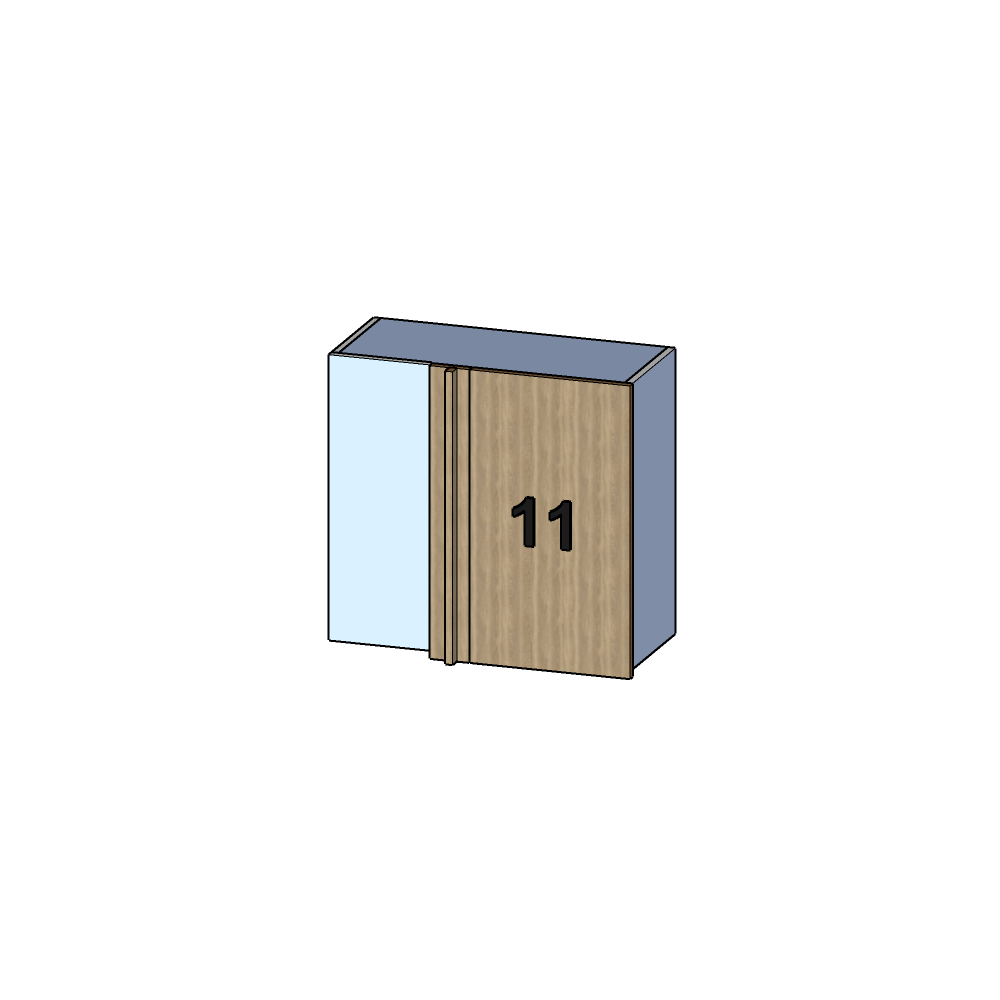
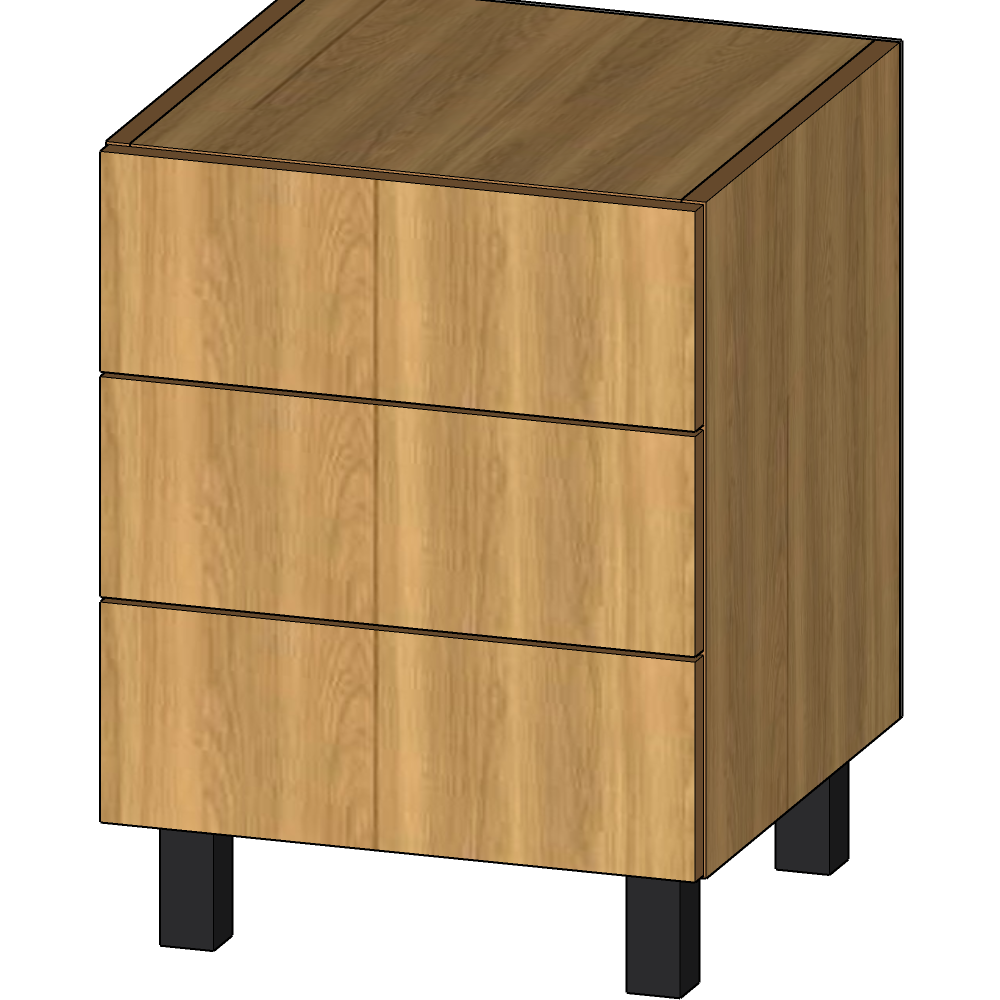
Cabinet Neo: kitchen-20261102 (8 ملف)

diff --git a/kitchen-20261102/unit_11.html b/kitchen-20261102/unit_11.html
@@ -1,10 +1,10 @@
 <!DOCTYPE html><html lang="ar" dir="rtl"><head><meta charset="UTF-8"><meta name="viewport" content="width=device-width,initial-scale=1">
-<title>علوية - وحدة رقم 11 - علبة</title><style>body{font-family:Tahoma,Arial,sans-serif;margin:0;background:#f4f4f4;color:#111}
+<title>وحدة 11 - كمود 3 أدراج</title><style>body{font-family:Tahoma,Arial,sans-serif;margin:0;background:#f4f4f4;color:#111}
 header{background:#ff6b1a;color:#fff;padding:14px 16px}h1{margin:0;font-size:22px}header p{margin:4px 0 0;font-size:13px;opacity:.9}
 img{display:block;width:100%;max-width:520px;margin:10px auto;background:#fff}.c{background:#fff;margin:10px;border-radius:10px;padding:12px}
 .dm{font-size:20px;font-weight:800;text-align:center;direction:ltr}table{width:100%;border-collapse:collapse;font-size:13px}td,th{border-bottom:1px solid #ddd;padding:6px;text-align:right}</style></head>
-<body><header><h1>علوية - وحدة رقم 11 - علبة</h1><p>سدة علوية · مطبخ · محمد عزت</p></header>
+<body><header><h1>وحدة 11 - كمود 3 أدراج</h1><p>وحدة خارجية · مطبخ · محمد عزت</p></header>
 <img src="unit_11.png" alt="">
-<div class="c dm">75 × 72 × 34.8 cm</div>
-<div class="c"><table><tr><th>#</th><th>القطعة</th><th>الخامة</th><th>المقاس (سم)</th><th>العدد</th></tr><tr><td><b>J</b></td><td>درفة علوية</td><td>HPL -SD-1026</td><td dir='ltr'>71.8 × 39.8</td><td>1</td></tr><tr><td><b>O</b></td><td>ثابتة علوية</td><td>HPL -SD-1026</td><td dir='ltr'>71.8 × 9.8</td><td>1</td></tr><tr><td><b>P</b></td><td>فلير وحدة علوية</td><td>HPL -SD-1026</td><td dir='ltr'>71.8 × 3</td><td>1</td></tr><tr><td><b>J</b></td><td>ضهرية</td><td>ظهور MDF 6مملي</td><td dir='ltr'>72.8 × 66.4</td><td>1</td></tr><tr><td><b>Q</b></td><td>أرضية</td><td>كونتر</td><td dir='ltr'>71.4 × 30</td><td>2</td></tr><tr><td><b>R</b></td><td>رف</td><td>كونتر</td><td dir='ltr'>71.4 × 27.6</td><td>1</td></tr><tr><td><b>S</b></td><td>م.تعليق</td><td>كونتر</td><td dir='ltr'>71.4 × 8</td><td>1</td></tr><tr><td><b>T</b></td><td>ج.يمين</td><td>كونتر</td><td dir='ltr'>70 × 30</td><td>2</td></tr><tr><td><b>U</b></td><td>سدة وحدة علوية</td><td>كونتر</td><td dir='ltr'>70 × 25</td><td>1</td></tr></table></div>
+<div class="c dm">45 × 60 × 43.8 cm</div>
+<div class="c"><table><tr><th>#</th><th>القطعة</th><th>الخامة</th><th>المقاس (سم)</th><th>العدد</th></tr><tr><td><b>B</b></td><td>كمود 3 أدراج - درج 1 - قاع</td><td>ظهور بورديوم 6مملي</td><td dir='ltr'>35.6 × 31.8</td><td>3</td></tr><tr><td><b>A</b></td><td>كمود 3 أدراج - جانب أيسر</td><td>غرفة نوم - خشب أوك</td><td dir='ltr'>50 × 41.4</td><td>2</td></tr><tr><td><b>E</b></td><td>كمود 3 أدراج - درج 1 - واجهة</td><td>غرفة نوم - خشب أوك</td><td dir='ltr'>44.6 × 16.3</td><td>3</td></tr><tr><td><b>F</b></td><td>كمود 3 أدراج - أرضية</td><td>غرفة نوم - خشب أوك</td><td dir='ltr'>41.4 × 41.4</td><td>2</td></tr><tr><td><b>A</b></td><td>كمود 3 أدراج - ضهر</td><td>غرفة نوم - ضهر</td><td dir='ltr'>50 × 45</td><td>1</td></tr><tr><td><b>C</b></td><td>كمود 3 أدراج - درج 1 - خلفية</td><td>كونتر</td><td dir='ltr'>35.6 × 10.3</td><td>6</td></tr><tr><td><b>F</b></td><td>كمود 3 أدراج - درج 1 - جانب أيسر</td><td>كونتر</td><td dir='ltr'>35 × 10.3</td><td>6</td></tr></table></div>
 <p style="text-align:center;color:#888;font-size:11px">Cabinet Neo</p></body></html>

diff --git a/kitchen-20261102/unit_17.html b/kitchen-20261102/unit_17.html
@@ -1,10 +1,10 @@
 <!DOCTYPE html><html lang="ar" dir="rtl"><head><meta charset="UTF-8"><meta name="viewport" content="width=device-width,initial-scale=1">
-<title>تجليدة 17</title><style>body{font-family:Tahoma,Arial,sans-serif;margin:0;background:#f4f4f4;color:#111}
+<title>وحدة 17 - كمود درجين</title><style>body{font-family:Tahoma,Arial,sans-serif;margin:0;background:#f4f4f4;color:#111}
 header{background:#ff6b1a;color:#fff;padding:14px 16px}h1{margin:0;font-size:22px}header p{margin:4px 0 0;font-size:13px;opacity:.9}
 img{display:block;width:100%;max-width:520px;margin:10px auto;background:#fff}.c{background:#fff;margin:10px;border-radius:10px;padding:12px}
 .dm{font-size:20px;font-weight:800;text-align:center;direction:ltr}table{width:100%;border-collapse:collapse;font-size:13px}td,th{border-bottom:1px solid #ddd;padding:6px;text-align:right}</style></head>
-<body><header><h1>تجليدة 17</h1><p>تجليدة · مطبخ · محمد عزت</p></header>
+<body><header><h1>وحدة 17 - كمود درجين</h1><p>وحدة خارجية · مطبخ · محمد عزت</p></header>
 <img src="unit_17.png" alt="">
-<div class="c dm">1.8 × 70 × 32 cm</div>
-<div class="c"><table><tr><th>#</th><th>القطعة</th><th>الخامة</th><th>المقاس (سم)</th><th>العدد</th></tr><tr><td><b>Q</b></td><td>تجليدة</td><td>HPL -SD-1026</td><td dir='ltr'>70 × 32</td><td>1</td></tr></table></div>
+<div class="c dm">50 × 50 × 43.8 cm</div>
+<div class="c"><table><tr><th>#</th><th>القطعة</th><th>الخامة</th><th>المقاس (سم)</th><th>العدد</th></tr><tr><td><b>A</b></td><td>كمود درج + رف - درج 1 - قاع</td><td>ظهور بورديوم 6مملي</td><td dir='ltr'>40.6 × 31.8</td><td>2</td></tr><tr><td><b>B</b></td><td>كمود درجين - درج 1 - واجهة</td><td>غرفة نوم - خشب أوك</td><td dir='ltr'>49.6 × 19.6</td><td>2</td></tr><tr><td><b>D</b></td><td>كمود درج + رف - أرضية</td><td>غرفة نوم - خشب أوك</td><td dir='ltr'>46.4 × 41.4</td><td>2</td></tr><tr><td><b>G</b></td><td>كمود درج + رف - جانب أيسر</td><td>غرفة نوم - خشب أوك</td><td dir='ltr'>41.4 × 40</td><td>2</td></tr><tr><td><b>B</b></td><td>كمود درج + رف - ضهر</td><td>غرفة نوم - ضهر</td><td dir='ltr'>50 × 40</td><td>1</td></tr><tr><td><b>A</b></td><td>كمود درجين - درج 1 - خلفية</td><td>كونتر</td><td dir='ltr'>40.6 × 13.6</td><td>4</td></tr><tr><td><b>D</b></td><td>كمود درجين - درج 1 - جانب أيسر</td><td>كونتر</td><td dir='ltr'>35 × 13.6</td><td>4</td></tr></table></div>
 <p style="text-align:center;color:#888;font-size:11px">Cabinet Neo</p></body></html>
